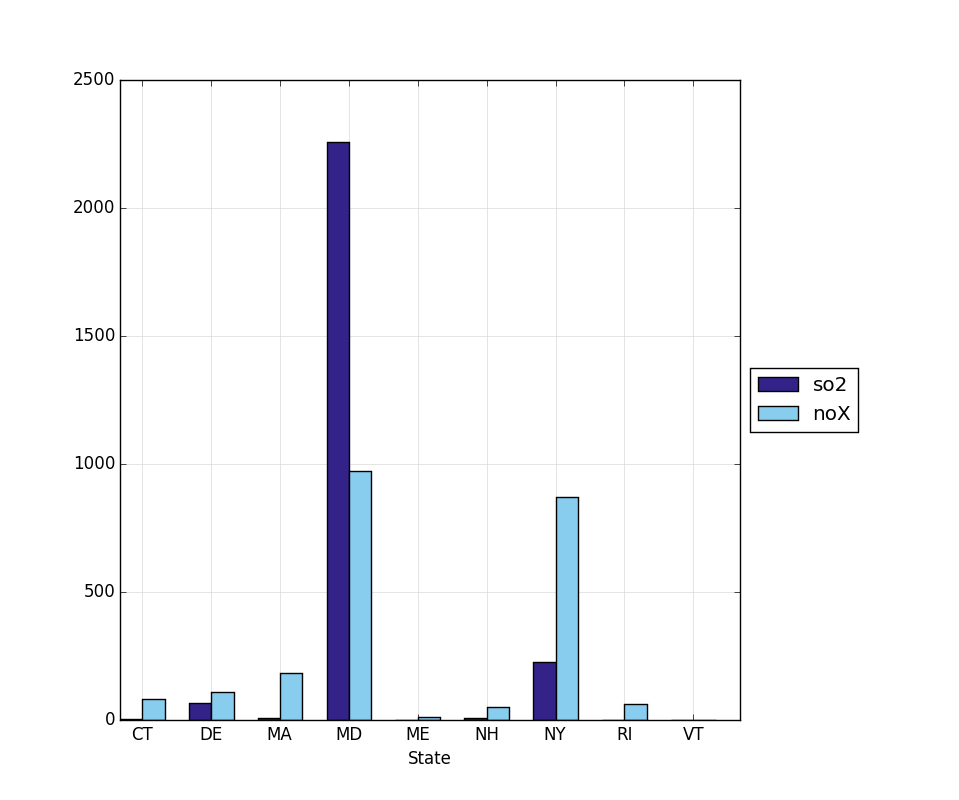
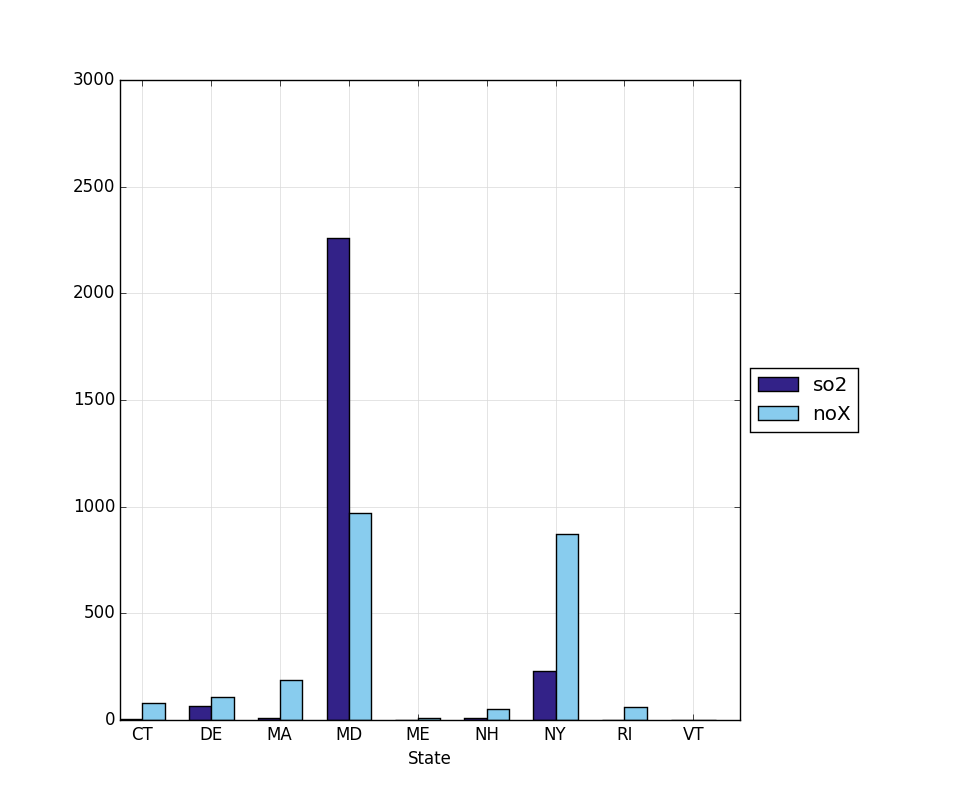
Better axis domain fitting. Closes #24.

diff --git a/agatecharts/table.py b/agatecharts/table.py
@@ -1,8 +1,11 @@
 #!/usr/bin/env python
 
+import math
+
 from matplotlib import pyplot
 
 from agatecharts.charts import Bars, Columns, Lines, Scatter
+from agatecharts.utils import roundoff
 
 #: Default rendered chart size in inches
 DEFAULT_SIZE = (8, 8)
@@ -97,6 +100,33 @@ class TableCharts(object):
                 size[1]
             )
 
+        x_min, x_max = chart.get_x_domain(self)
+        y_min, y_max = chart.get_y_domain(self)
+
+        if x_min is not None:
+            if x_min < 0:
+                x_min = roundoff(x_max)
+            else:
+                x_min = 0
+
+        if x_max is not None and x_max != 0:
+            if x_max > 0:
+                x_max = roundoff(x_max)
+            else:
+                x_max = 0
+
+        if y_min is not None:
+            if y_min < 0:
+                y_min = roundoff(x_max)
+            else:
+                y_min = 0
+
+        if y_max is not None:
+            if y_max > 0:
+                y_max = roundoff(y_max)
+            else:
+                y_max = 0
+
         pyplot.figure(figsize=size, dpi=dpi)
         axes = pyplot.subplot(1, 1, 1)
 
@@ -104,6 +134,13 @@ class TableCharts(object):
 
         pyplot.grid(b=True, which='major', color='0.85', linestyle='-')
         axes.set_axisbelow(True)
+
+        # matplotlib won't accept Decimal for limit values
+        if x_min is not None and x_max is not None:
+            axes.set_xlim(float(x_min), float(x_max))
+
+        if y_min is not None and y_max is not None:
+            axes.set_ylim(float(y_min), float(y_max))
 
         if chart.show_legend():
             bbox = axes.get_position()

diff --git a/agatecharts/tableset.py b/agatecharts/tableset.py
@@ -7,6 +7,7 @@ from matplotlib import pyplot
 
 from agatecharts.charts import Bars, Columns, Lines, Scatter
 from agatecharts.table import DEFAULT_DPI
+from agatecharts.utils import roundoff
 
 #: Default small multiple chart size in inches
 DEFAULT_MULTIPLE_SIZE = (4, 4)
@@ -81,6 +82,30 @@ class TableSetCharts(object):
             x_max = max(x_max, table_x_max)
             y_min = min(y_min, table_y_min)
             y_max = max(y_max, table_y_max)
+
+        if x_min is not None:
+            if x_min < 0:
+                x_min = roundoff(x_max)
+            else:
+                x_min = 0
+
+        if x_max is not None and x_max != 0:
+            if x_max > 0:
+                x_max = roundoff(x_max)
+            else:
+                x_max = 0
+
+        if y_min is not None:
+            if y_min < 0:
+                y_min = roundoff(x_max)
+            else:
+                y_min = 0
+
+        if y_max is not None:
+            if y_max > 0:
+                y_max = roundoff(y_max)
+            else:
+                y_max = 0
 
         i = 0
 

diff --git a/agatecharts/charts/lines.py b/agatecharts/charts/lines.py
@@ -18,6 +18,9 @@ class Lines(Chart):
         return len(self._y_column_names) > 1
 
     def get_x_domain(self, table):
+        if not isinstance(table.columns[self._x_column_name].data_type, agate.Number):
+            return (None, None)
+
         x_min = min(table.columns[self._x_column_name])
         x_max = max(table.columns[self._x_column_name])
 
